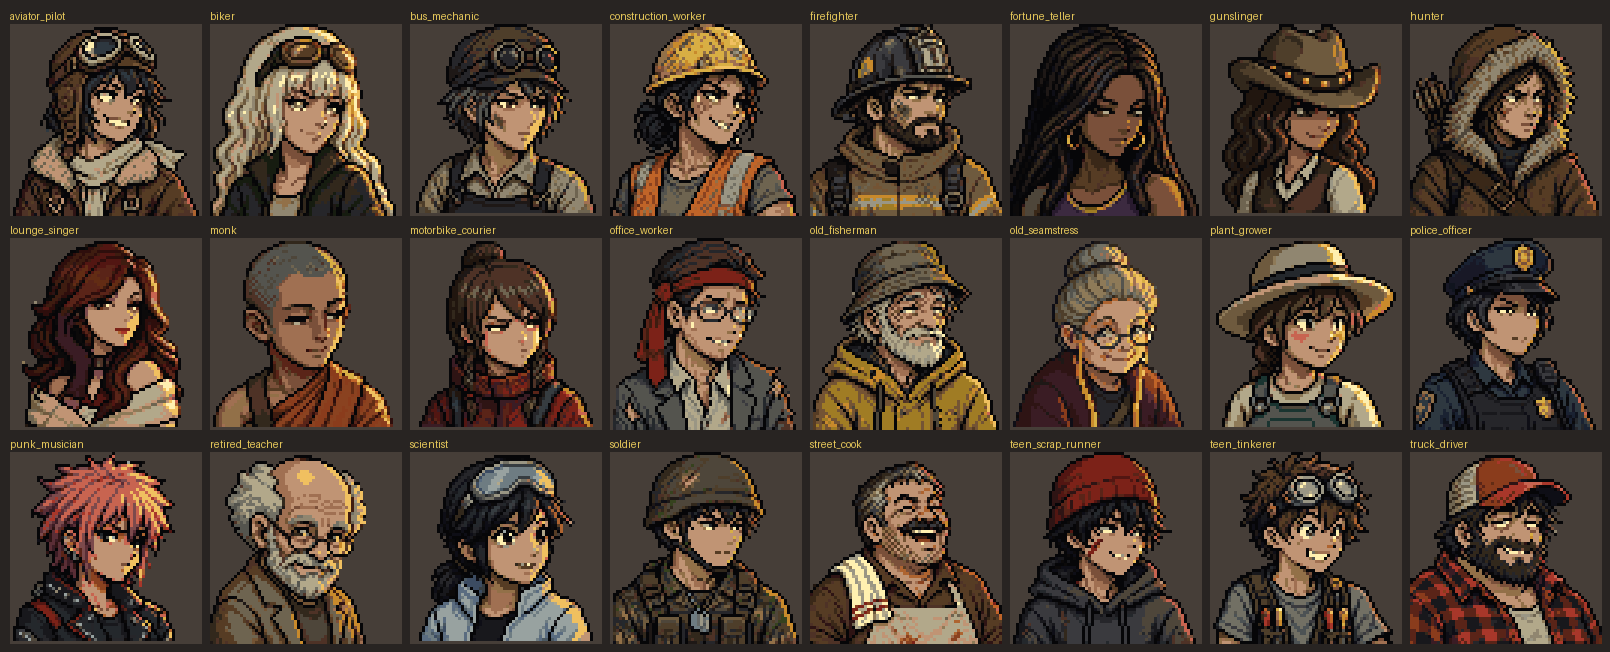
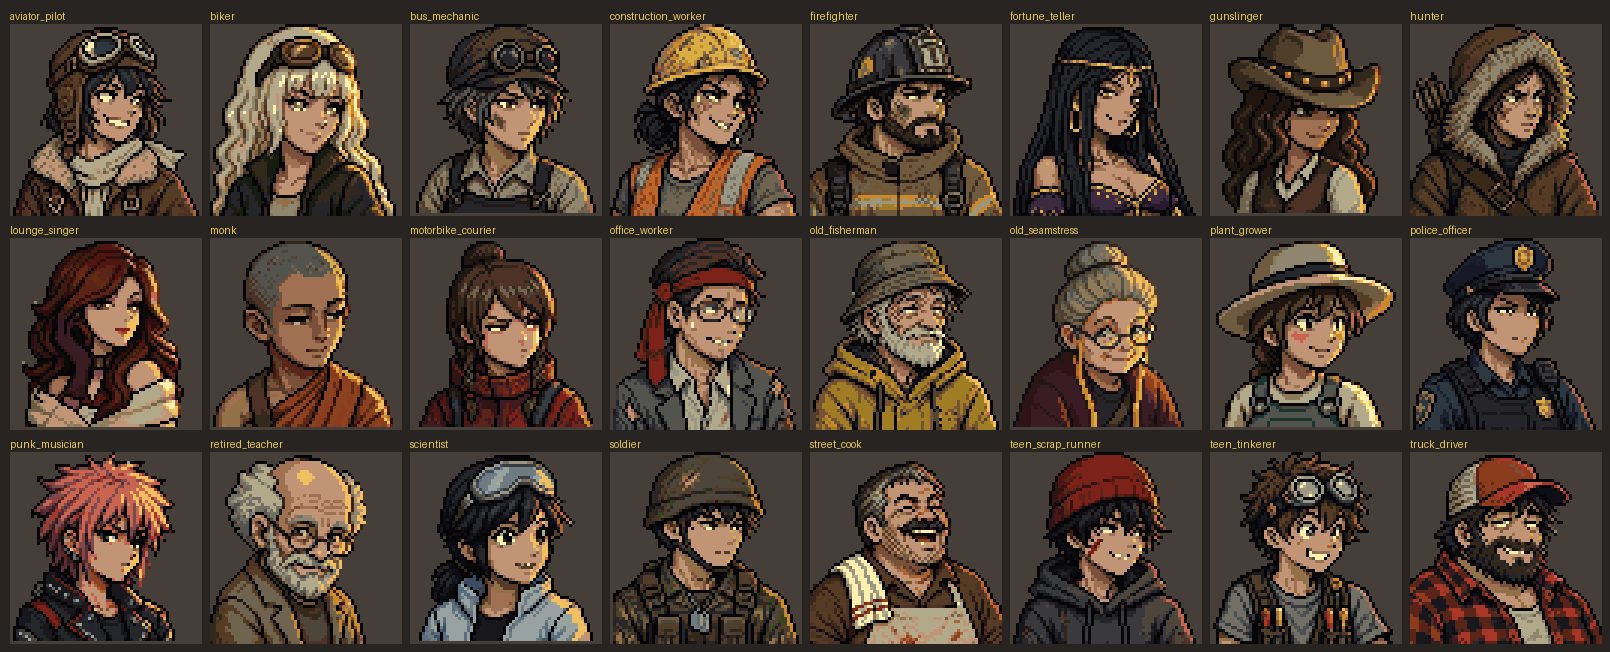
MV-585: restyle the fortune teller portrait to the reference style

Changed region(s): [[0.6211, 0.0307, 0.7453, 0.3374]]

diff --git a/docs/art/crew-style-reference.md b/docs/art/crew-style-reference.md
@@ -147,7 +147,7 @@ game's muted tone. Recipe in the manifest `cast_portraits`.
 Portraits must share one cartoon style and head size: the punk musician, courier, monk and
 teen scrap runner are the style references. Make a new portrait by editing the teen scrap
 runner portrait into the new person (manifest `cast_portraits.restyled_from_reference`); the
-truck driver, firefighter, fisherman, tinkerer, cook, pilot, soldier, police officer, hunter, construction worker and office worker were redone that way after drifting
+truck driver, firefighter, fisherman, tinkerer, cook, pilot, soldier, police officer, hunter, construction worker, office worker and fortune teller were redone that way after drifting
 towards a realistic look with smaller heads.
 
 ![The 24 cast portraits](crew-style-reference/previews/portraits.png)
